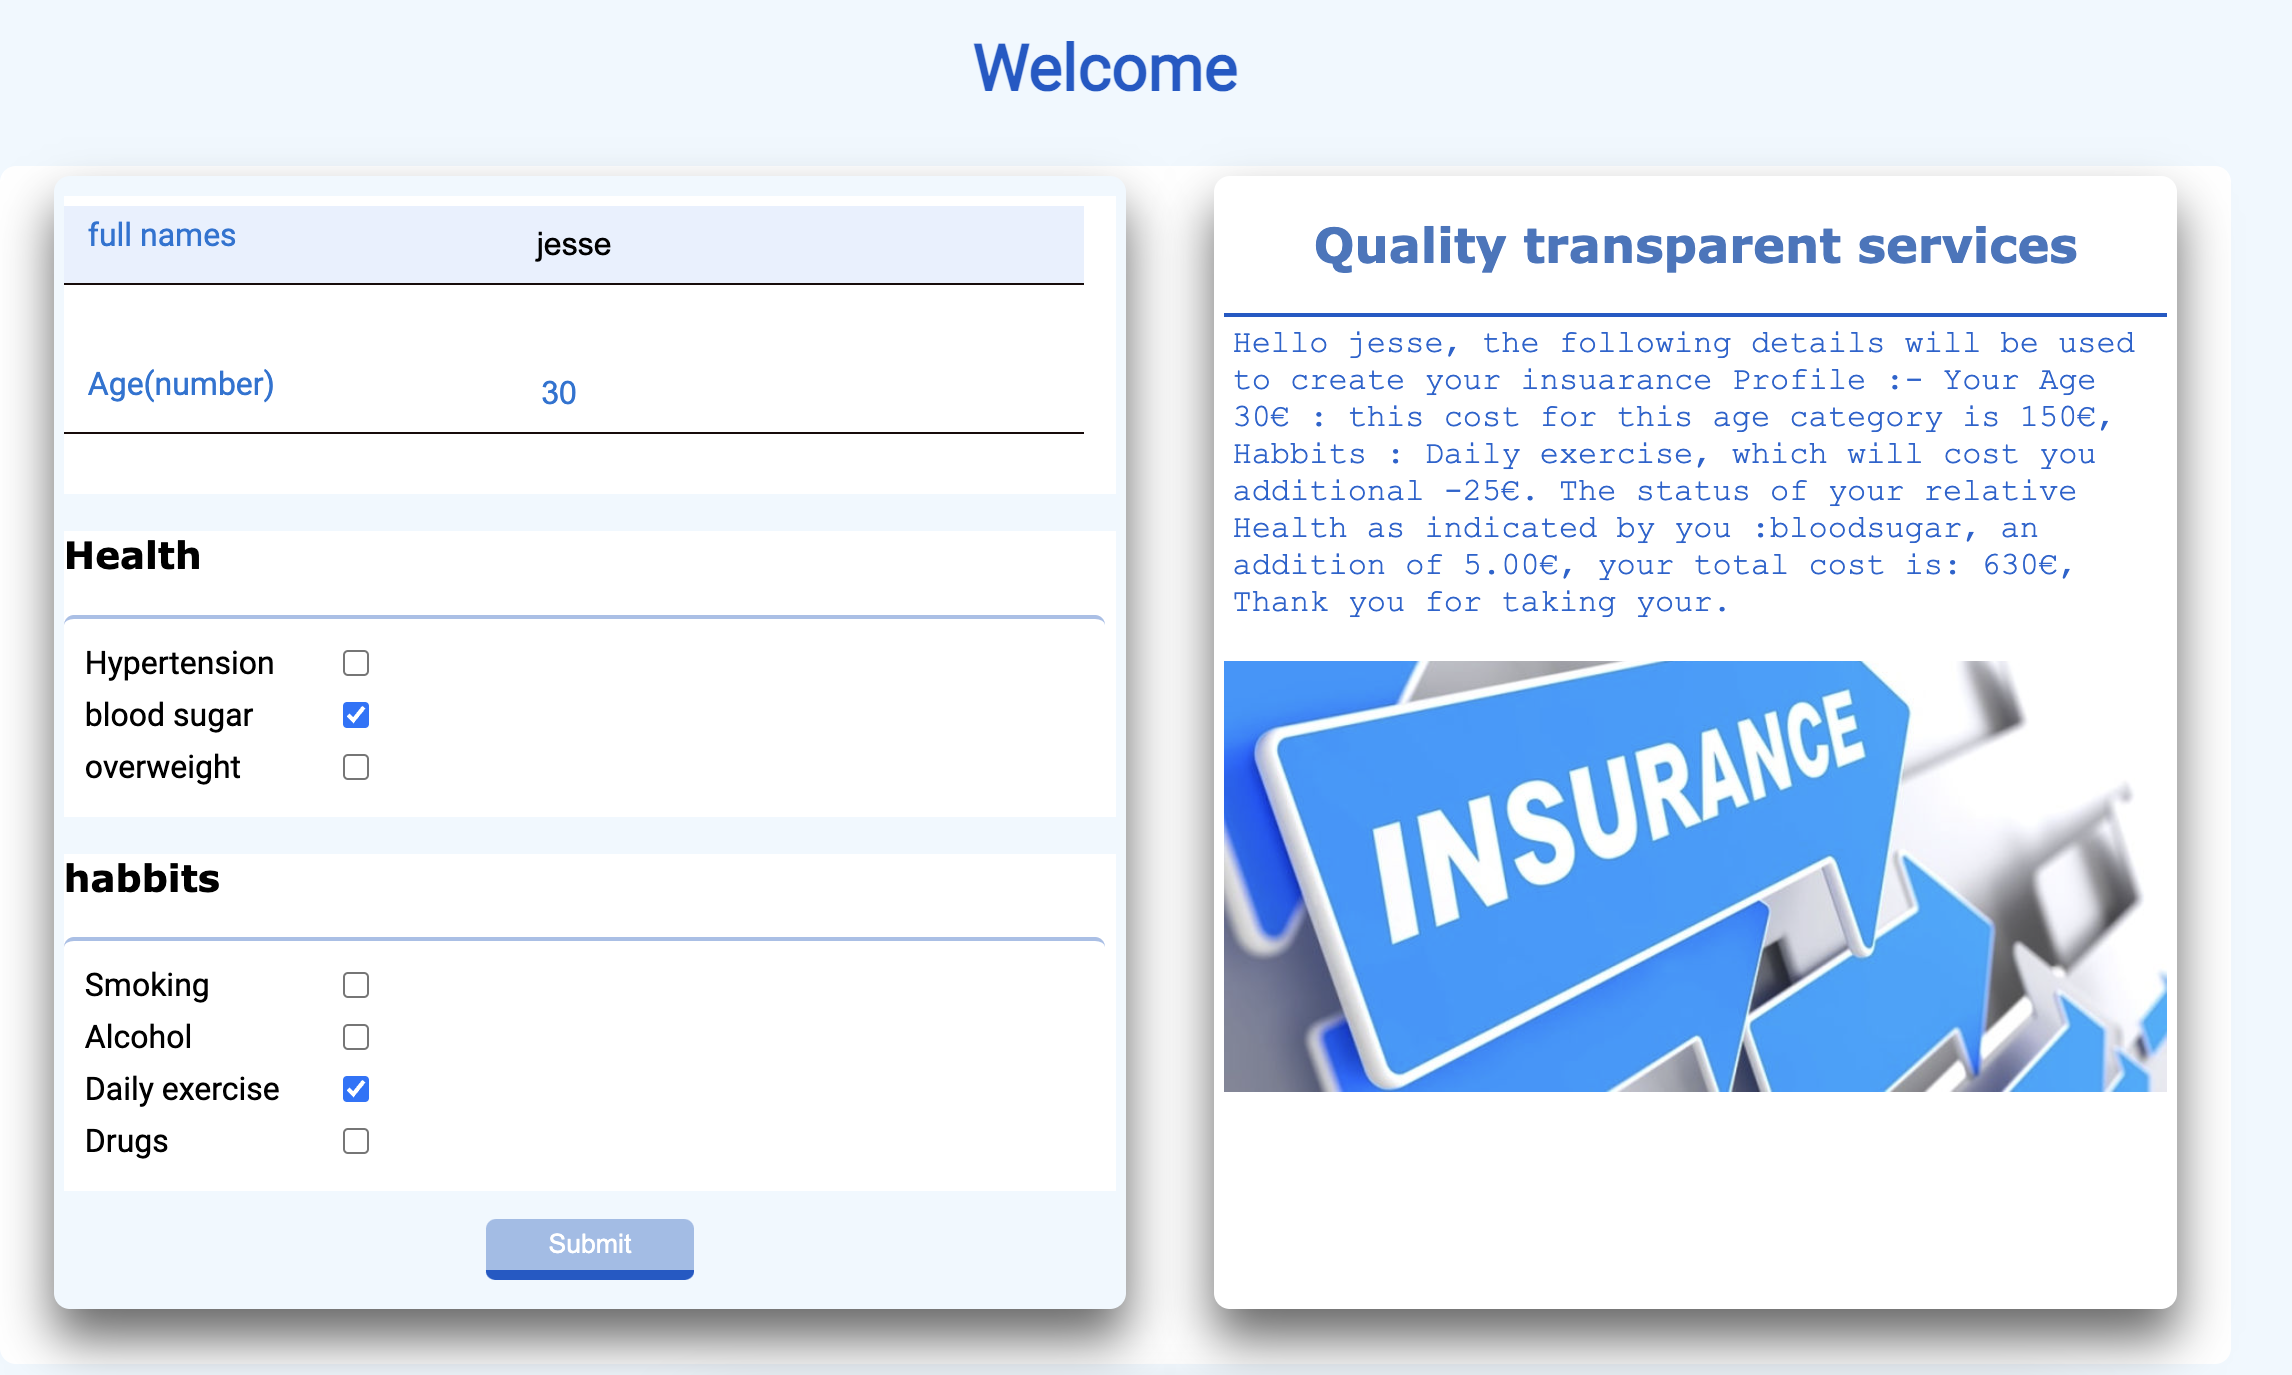
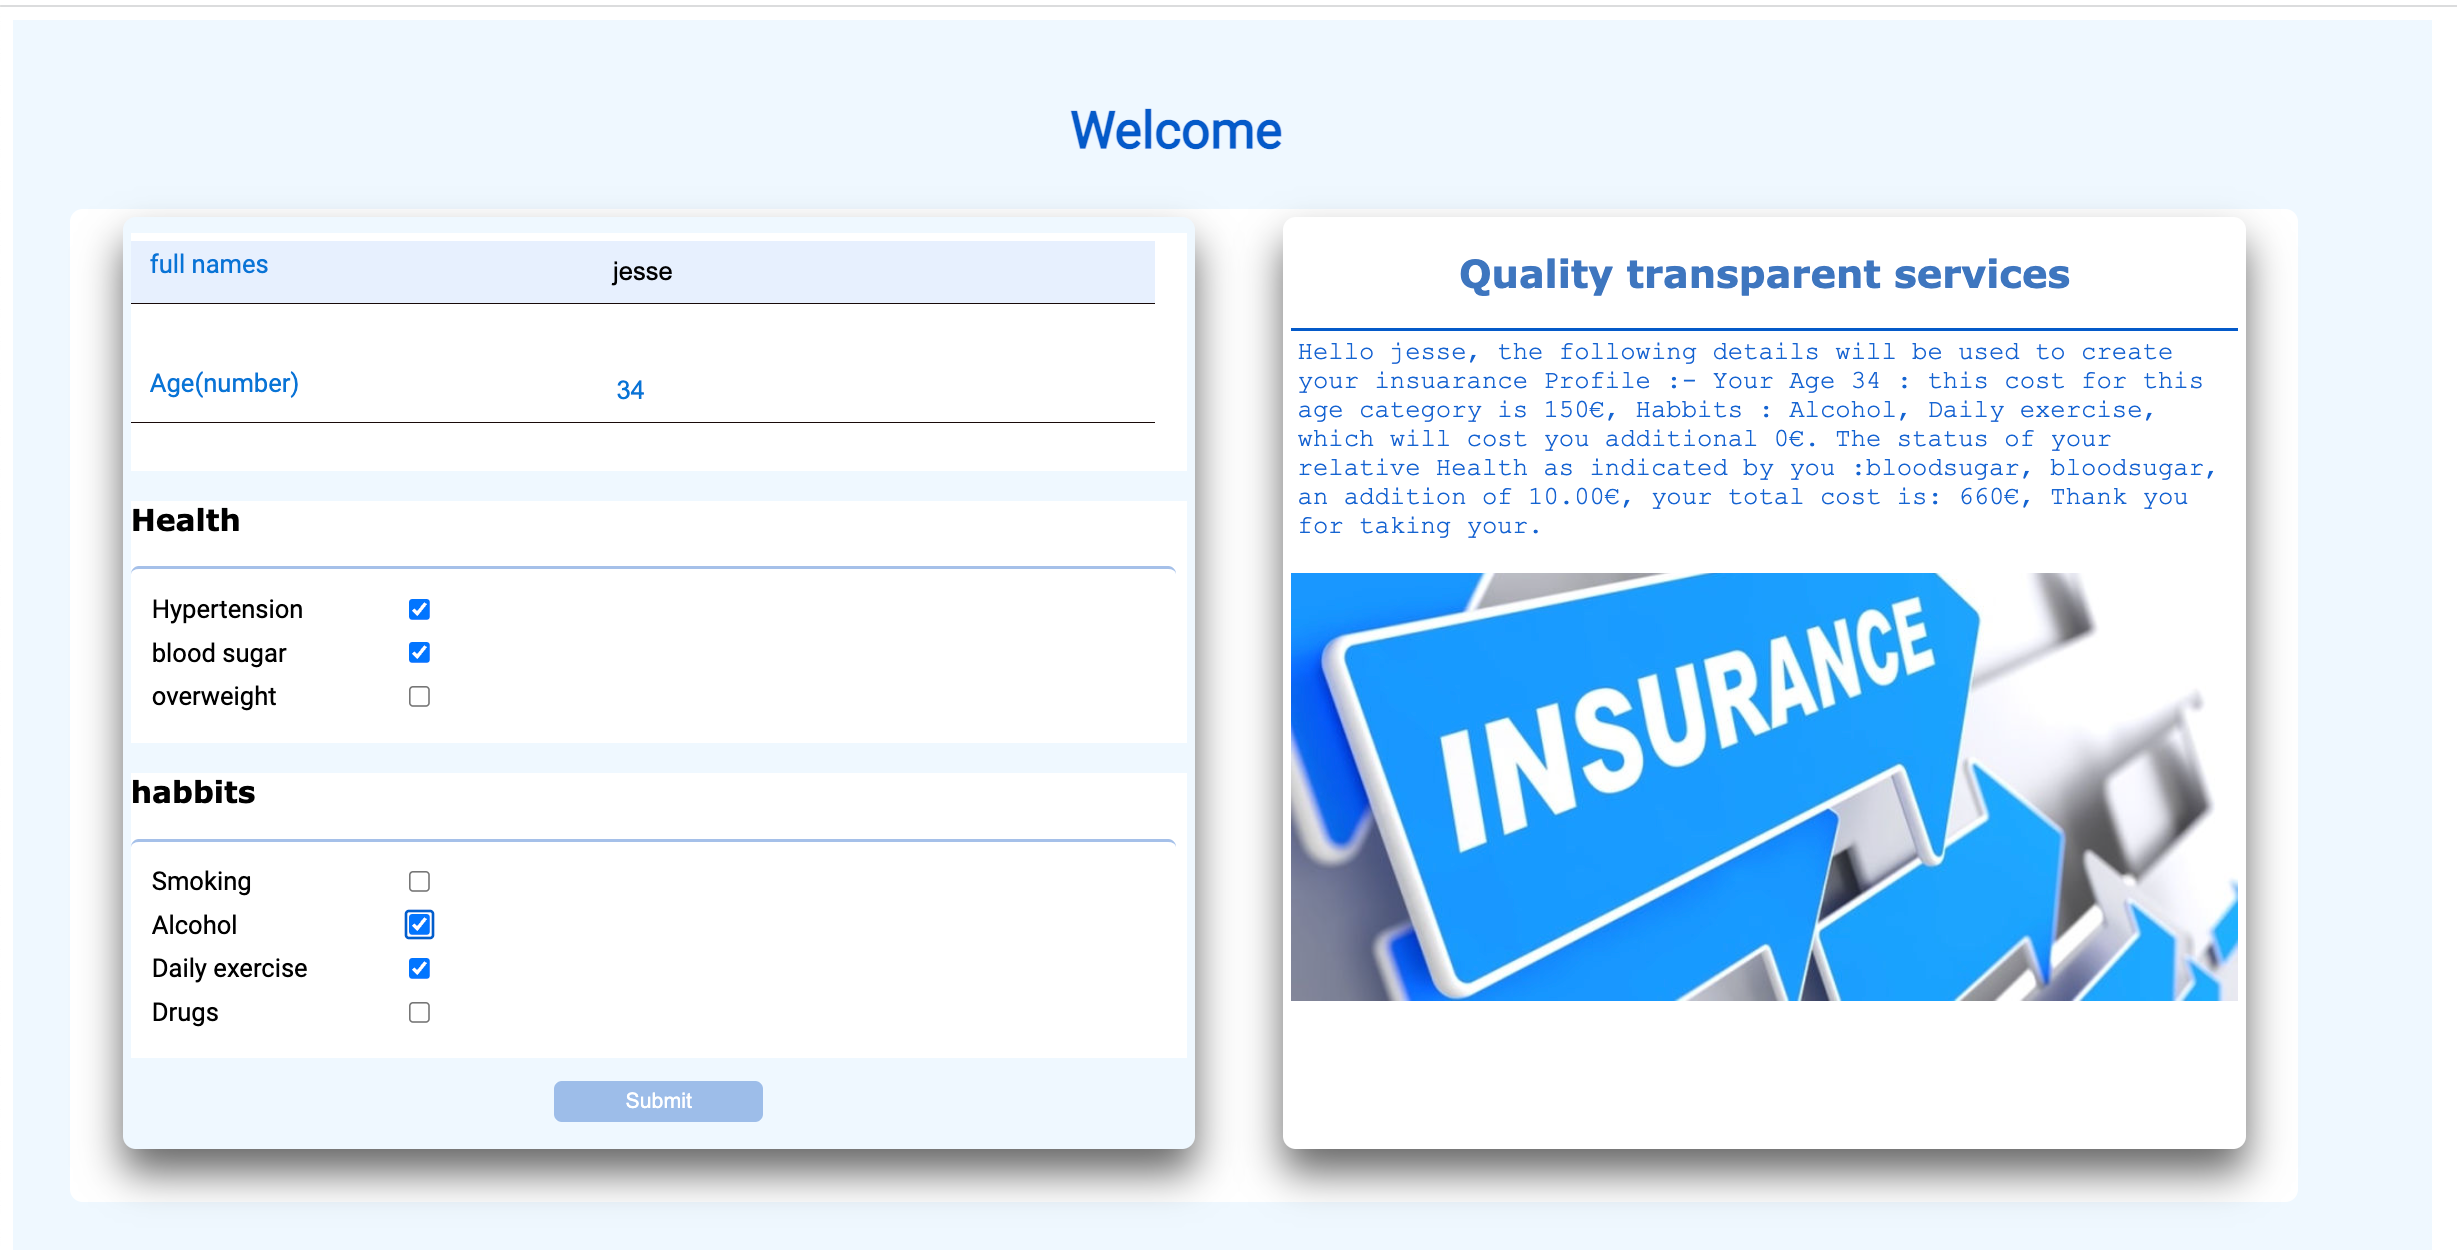
portfolio final

diff --git a/Tasks/HBCPortfolio/index.html b/Tasks/HBCPortfolio/index.html
@@ -81,7 +81,13 @@
                   class="Projectimage"
                 />
                 <div class="Projectoverlay">
-                  <div class="Projecttext">Pokedex Api</div>
+                  <div class="Projecttext">
+                    <h3>Pokedex Api</h3> 
+                    <small>Project Fetshes data from pokemon API using Vanilla JavaScript
+                    you can fetch based on generations 1 -8.
+                    </small><br>
+                    <a href="https://public.bc.fi/s2200127/Pokedex/" target="_blank" rel="noopener noreferrer">Live Demo</a>
+                  </div>
                 </div>
               </div>
             </div>
@@ -93,7 +99,12 @@
                   class="Projectimage"
                 />
                 <div class="Projectoverlay">
-                  <div class="Projecttext">Speed Game</div>
+                  <div class="Projecttext">
+                    <h3>Speed Game</h3> 
+                  <small>Project to create a game that has timer and click events on DIVSs
+                     html elements that share the same class</small><br>
+                     <a href="http://public.bc.fi/s2200127/speedgame/" target="_blank" rel="noopener noreferrer">Live Demo</a>
+                  </div>
                 </div>
               </div>
             </div>
@@ -105,7 +116,13 @@
                   class="Projectimage"
                 />
                 <div class="Projectoverlay">
-                  <div class="Projecttext">Pizza Order</div>
+                  <div class="Projecttext"> 
+                    <h3>Pizza Order</h3>
+                    <small>Make a program where users can "order"
+                    a pizza. The primary focus of that task is on working with forms.</small>
+                    <br>
+                    <a href="https://public.bc.fi/s2200127/PizzaOrder/" target="_blank" rel="noopener noreferrer">Live Demo</a>
+                  </div>
                 </div>
               </div>
             </div>
@@ -117,7 +134,13 @@
                   class="Projectimage"
                 />
                 <div class="Projectoverlay">
-                  <div class="Projecttext">Car Database</div>
+                  <div class="Projecttext"><h3>Car Database</h3><small>
+                    Ask for the user's licence plate, car maker, car model, current owner, price and colour. 
+Get the user input and create a new car object based on those properties
+Make an array of added cars and show a console table with an array
+Show array as a table on a webpage</small>
+<a href="https://public.bc.fi/s2200127/cardatabase/" target="_blank" rel="noopener noreferrer">Live Demo</a>
+                  </div>
                 </div>
               </div>
             </div>
@@ -129,19 +152,29 @@
                   class="Projectimage"
                 />
                 <div class="Projectoverlay">
-                  <div class="Projecttext">Background Generator</div>
+                  <div class="Projecttext"><h3> Background Generator</h3>
+                    <small>give body a grdient background from two selected colors, 
+                      user select the two colors and then select direction of gradient.</small>
+                      <br>
+                    <a href="https://public.bc.fi/s2200127/bggenerator/" target="_blank" rel="noopener noreferrer">Live Demo</a>
+                  </div>
                 </div>
               </div>
             </div>
             <div>
               <div class="Projectcard">
                 <img
-                  src="Assets/Pizza.png"
+                  src="Assets/insuarance.png"
                   alt="project one"
                   class="Projectimage"
                 />
                 <div class="Projectoverlay">
-                  <div class="Projecttext">Speed Game</div>
+                  <div class="Projecttext">
+                    <h3>Insurance calculator</h3> 
+                  <small>Make a program where user can check their risk score for insurance.</small>
+                 <br>
+                  <a href="https://public.bc.fi/s2200127/cardatabase/" target="_blank" rel="noopener noreferrer"></a>
+                </div>
                 </div>
               </div>
             </div>
@@ -272,7 +305,7 @@
             <h2>contact me</h2>
             <div style="text-align: center">
               <p>
-                Hi whats your name and let me have email and phone to reach you
+                Hi <span class="wavehand">👋</span>.  Whats your name and let me have email and phone to reach you
               </p>
             </div>
             <div class="message">
@@ -354,7 +387,7 @@
         </section>
       </div>
       <footer>
-        <p>copyright &copy; 2022</p>
+        <p>copyright &copy; 2022. Jesse Mmwangi</p>
         <button id="backtoptop" class="backtoptop btn">
           <span class="material-icons"> arrow_upward </span>
         </button>

diff --git a/week three/Insuarance/insuarance.js b/week three/Insuarance/insuarance.js
@@ -68,7 +68,7 @@ let displaystatistics=(namevalue,agecost,healthvalue,healthtext,habbitvalue,habb
     outputinfo.style.background="white";
     var totalcost=Number.parseInt(insurancepct) +Number.parseInt(agecost)+Number.parseInt(healthvalue)+Number.parseInt(habbitvalue);
     let testing="Hello "+namevalue +", the following details will be used to create your insuarance Profile :- Your Age "
-    + agevalue +"€ : this cost for this age category is " + agecost +"€, Habbits : "
+    + agevalue +" : this cost for this age category is " + agecost +"€, Habbits : "
     + habbittext + " which will cost you additional "+ habbitvalue+"€. The status of your relative Health as indicated by you :" 
     +  healthtext +" an addition of "+ healthvalue +"€, your total cost is: "
     +totalcost+ "€, Thank you for taking your."

diff --git a/Tasks/HBCPortfolio/style.css b/Tasks/HBCPortfolio/style.css
@@ -377,7 +377,9 @@ width:60%
   border-radius: 10px;
   margin-top: 2rem;
 }
-
+.wavehand{
+  font-size: 32px;
+}
 .message {
   display: flex;
   flex-direction: row;
@@ -742,6 +744,8 @@ animation: circle 8s;
   transform: rotate3d(90deg);
 }
 .Projecttext{
+  width: 100%;
+  padding: 1rem;
   color: white;
   font-size: 20px;
   position: absolute;

diff --git a/Tasks/HBCPortfolio/main.js b/Tasks/HBCPortfolio/main.js
@@ -92,5 +92,4 @@ const myFunction = (imgs) =>{
 });
 backtoptop.addEventListener('click', getToTop);
 mobilebtn.addEventListener('click', mobileMenu);
-// modalbtnc.addEventListener('click',modalbtn);
-// closemodal.addEventListener('click', modalbtn);
+
